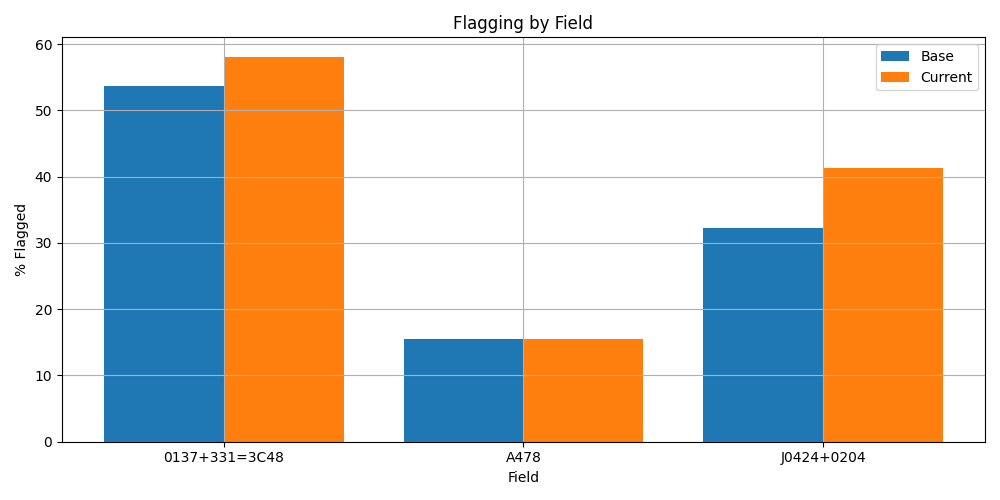
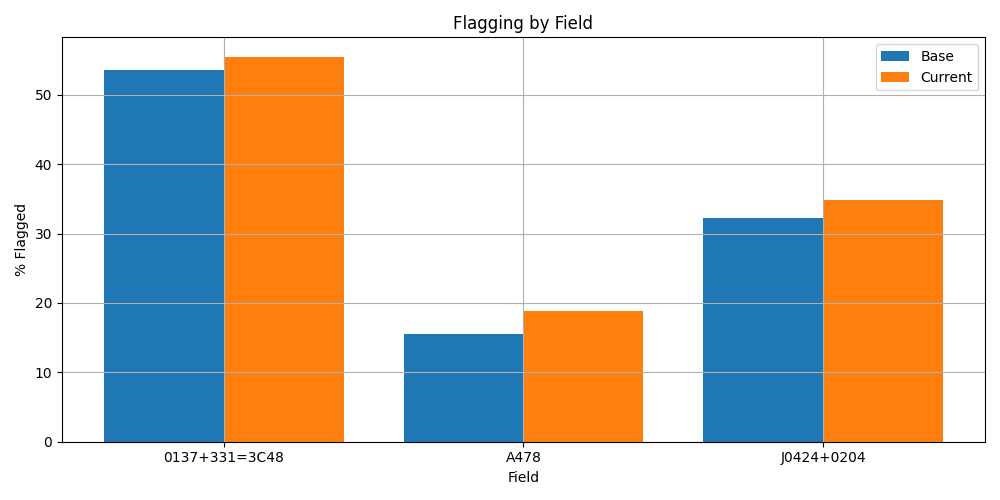
feat: 25A-tab-7178 setup

diff --git a/Data Processing/25A-157.sb47897178.eb48143348.60745.94845704861/casa_pipescript.py b/Data Processing/25A-157.sb47897178.eb48143348.60745.94845704861/casa_pipescript.py
@@ -7,7 +7,7 @@ try:
     hifv_flagdata(hm_tbuff='1.5int', fracspw=0.01, intents='*POINTING*,*FOCUS*,*ATMOSPHERE*,*SIDEBAND_RATIO*, *UNKNOWN*, *SYSTEM_CONFIGURATION*, *UNSPECIFIED#UNSPECIFIED*')
     hifv_vlasetjy()
     hifv_priorcals(show_tec_maps=False)
-    hifv_aoflagger(flag_target='0137+331=3C48', aoflagger_file='0137+331=3C48.lua')
+    hifv_aoflagger(flag_target='2', aoflagger_file='0137+331=3C48.lua')
     hifv_testBPdcals()
     hifv_semiFinalBPdcals()
     hifv_aoflagger(flag_target='0', aoflagger_file='J0424+0204.lua')
